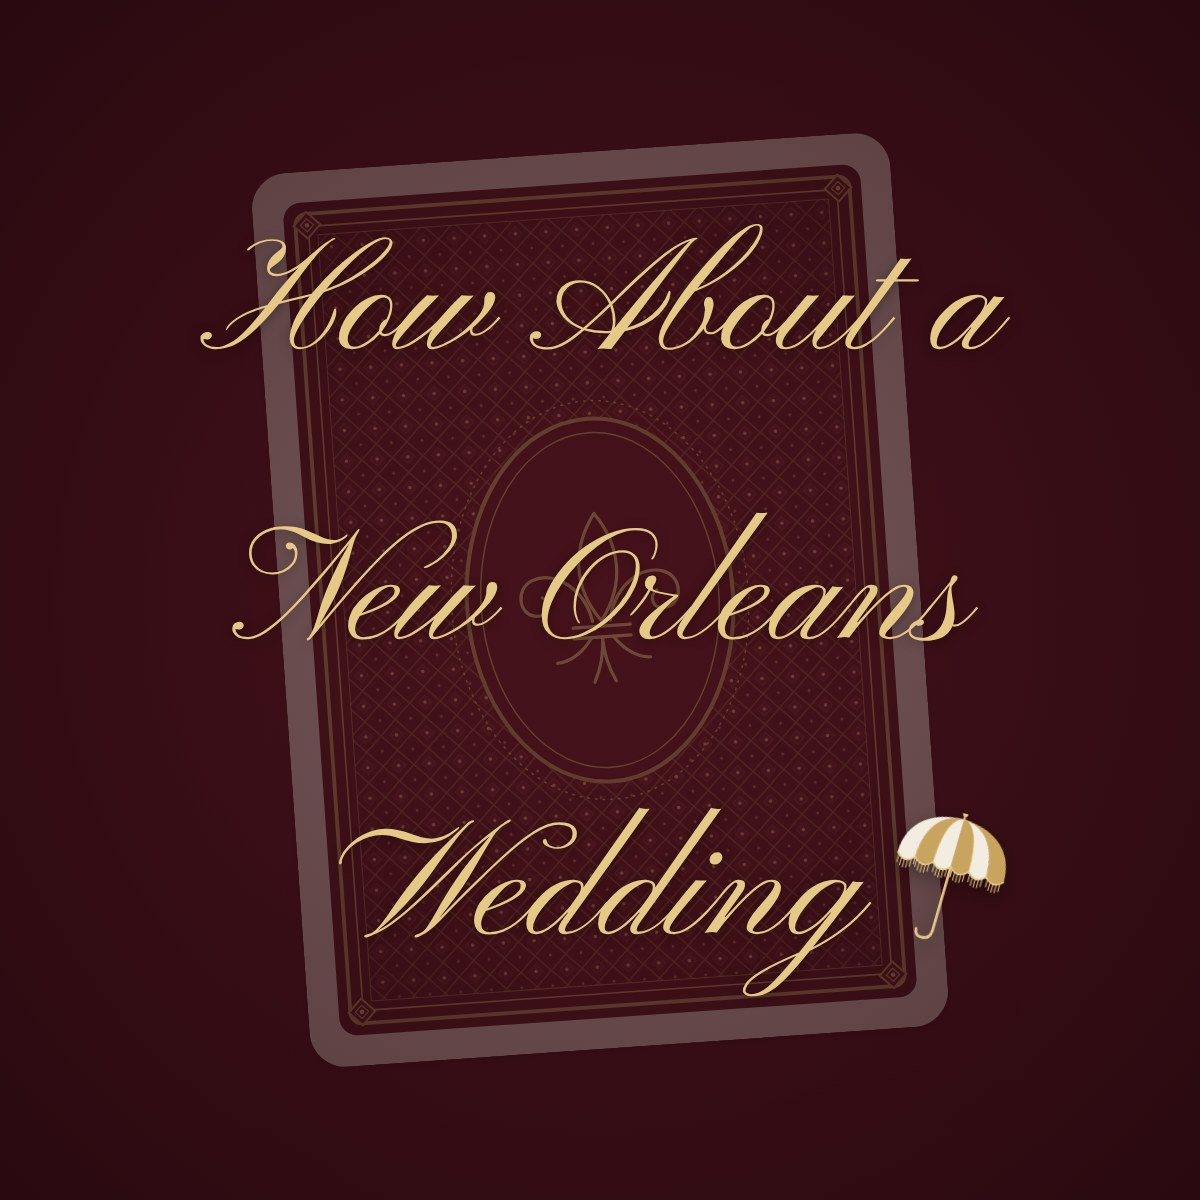
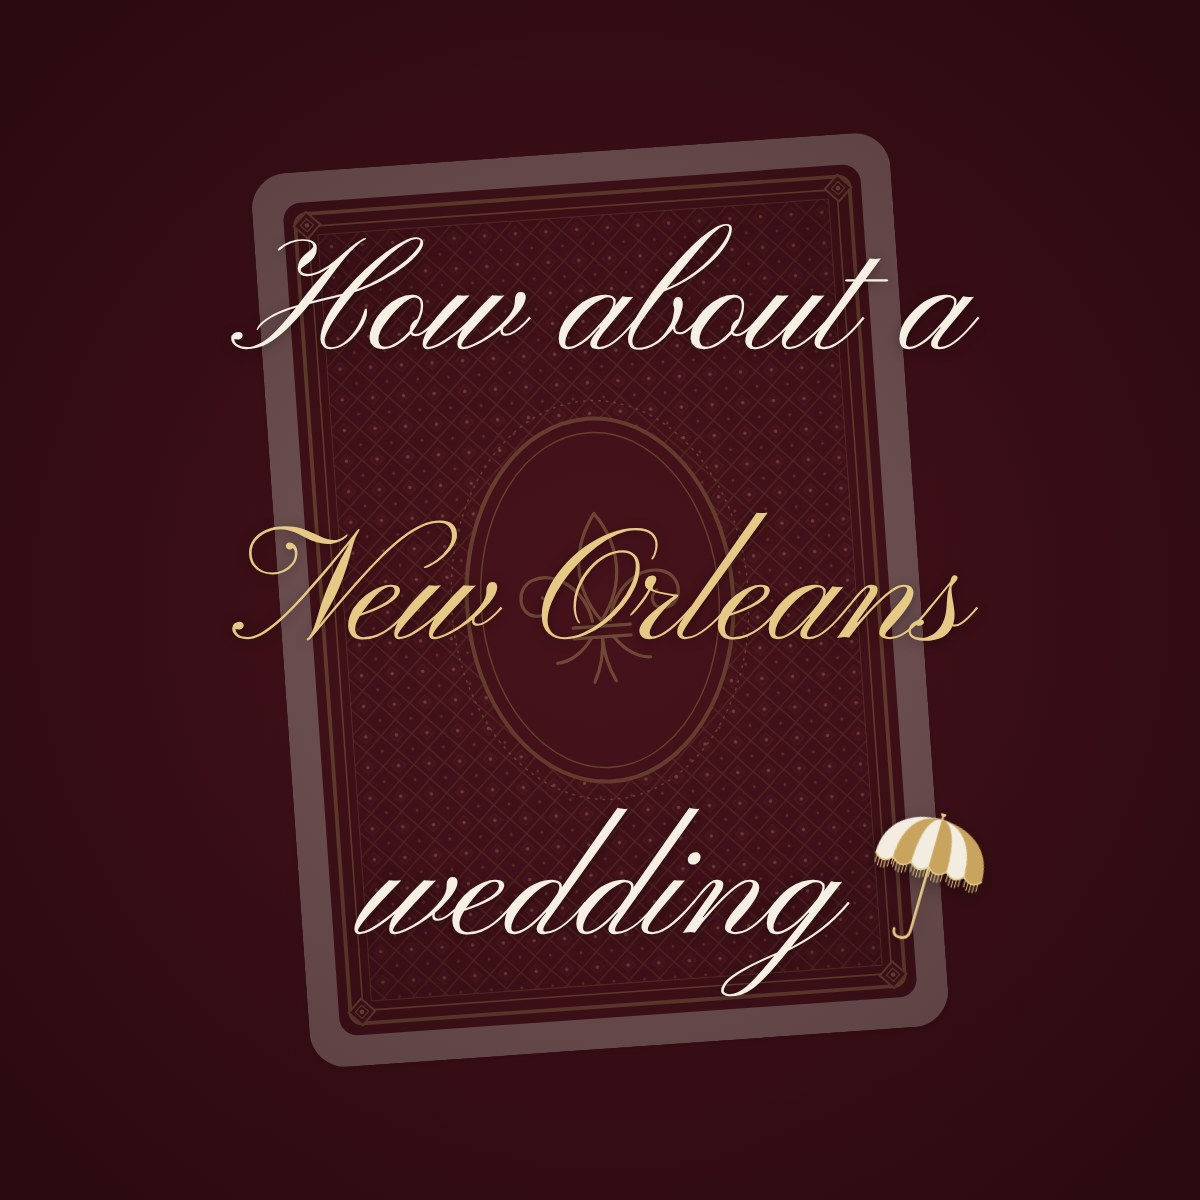
Preview tests: sentence case, cream script with gold New Orleans
Claude-Session: https://claude.ai/code/session_016KBQnmGzJaodTgtuWJa9K5

Changed region(s): [[0.2775, 0.6783, 0.8633, 0.8325], [0.1542, 0.185, 0.8325, 0.3083]]

diff --git a/tools/make-previews.js b/tools/make-previews.js
@@ -35,16 +35,16 @@ const titleCSS = (k, pos) => `
 .wash{position:absolute;inset:0;background:radial-gradient(ellipse at center,rgba(58,14,22,.66) 0%,rgba(40,9,15,.8) 100%)}
 .title{position:absolute;inset:0;text-shadow:0 2px 12px rgba(0,0,0,.35)}
 .title > *{position:absolute;left:0;right:0;transform:translateY(-50%);display:flex;justify-content:center;align-items:center;text-align:center}
-.title .a{top:${pos.a}px;font-family:"Pinyon Script",cursive;color:#e6c887;font-size:${156*k}px;line-height:1;white-space:nowrap}
+.title .a{top:${pos.a}px;font-family:"Pinyon Script",cursive;color:#f6f0e4;font-size:${156*k}px;line-height:1;white-space:nowrap}
 .title .no{top:${pos.no}px;font-family:"Pinyon Script",cursive;color:#e6c887;font-size:${156*k}px;line-height:1.15;white-space:nowrap}
 .title .wed{top:${pos.wed}px}
 .title .wed .w{position:relative;display:inline-block}
-.title .wed span{font-family:"Pinyon Script",cursive;color:#e6c887;font-size:${156*k}px;line-height:1}
+.title .wed span{font-family:"Pinyon Script",cursive;color:#f6f0e4;font-size:${156*k}px;line-height:1}
 .title .wed .p{position:absolute;left:100%;top:50%;margin-left:${24*k}px;width:${118*k}px;transform:translateY(-62%) rotate(16deg);filter:drop-shadow(0 8px 10px rgba(0,0,0,.35))}
 .title .wed .p svg{display:block;width:100%;height:auto}
 .title .wed .p path[stroke="#3a2a22"]{stroke:#e6c887}`;
-const titleHTML = `<div class="wash"></div><div class="title"><div class="a">How About a</div><div class="no">New Orleans</div>
-<div class="wed"><div class="w"><span>Wedding</span><div class="p">${parasolSVG(["#f3ece0", "#c9a45f", "#e6c887"])}</div></div></div></div>`;
+const titleHTML = `<div class="wash"></div><div class="title"><div class="a">How about a</div><div class="no">New Orleans</div>
+<div class="wed"><div class="w"><span>wedding</span><div class="p">${parasolSVG(["#f3ece0", "#c9a45f", "#e6c887"])}</div></div></div></div>`;
 const FONTS = `<link href="https://fonts.googleapis.com/css2?family=Pinyon+Script&family=Cormorant+Garamond:ital,wght@0,400;0,500;1,400;1,500${SUP.gf ? "&family=" + SUP.gf : ""}&display=swap" rel="stylesheet">`;
 // Card-shaped (5:7) preview: the card back edge to edge.
 const portrait = `<!doctype html><html><head>${FONTS}<style>*{margin:0}body{width:1000px;height:1400px;overflow:hidden;position:relative;background:#efe9dd}

diff --git a/preview-test/portrait.html b/preview-test/portrait.html
@@ -10,13 +10,13 @@
   <meta property="og:url" content="https://aneworleanswedding.com/preview-test/portrait.html">
   <meta property="og:title" content="Ailsa ⚜ André">
   <meta property="og:description" content="Save the date · January 8, 2028 · New Orleans, Louisiana">
-  <meta property="og:image" content="https://aneworleanswedding.com/assets/og-card-portrait.jpg?v=11">
+  <meta property="og:image" content="https://aneworleanswedding.com/assets/og-card-portrait.jpg?v=12">
   <meta property="og:image:type" content="image/jpeg">
   <meta property="og:image:width" content="1000">
   <meta property="og:image:height" content="1400">
   <meta property="og:image:alt" content="A maroon playing card back with a gold fleur-de-lis medallion">
   <meta name="twitter:card" content="summary_large_image">
-  <meta name="twitter:image" content="https://aneworleanswedding.com/assets/og-card-portrait.jpg?v=11">
+  <meta name="twitter:image" content="https://aneworleanswedding.com/assets/og-card-portrait.jpg?v=12">
   <link rel="icon" href="../favicon.svg" type="image/svg+xml">
   <style>body{margin:0;min-height:100vh;display:grid;place-items:center;background:#f8f4ec;font-family:Georgia,serif;color:#2f3a33;text-align:center;padding:24px}a{color:#5c1a24}</style>
 </head>

diff --git a/preview-test/square.html b/preview-test/square.html
@@ -10,13 +10,13 @@
   <meta property="og:url" content="https://aneworleanswedding.com/preview-test/square.html">
   <meta property="og:title" content="Ailsa ⚜ André">
   <meta property="og:description" content="Save the date · January 8, 2028 · New Orleans, Louisiana">
-  <meta property="og:image" content="https://aneworleanswedding.com/assets/og-card-square.jpg?v=11">
+  <meta property="og:image" content="https://aneworleanswedding.com/assets/og-card-square.jpg?v=12">
   <meta property="og:image:type" content="image/jpeg">
   <meta property="og:image:width" content="1200">
   <meta property="og:image:height" content="1200">
   <meta property="og:image:alt" content="A maroon playing card back with a gold fleur-de-lis medallion">
   <meta name="twitter:card" content="summary_large_image">
-  <meta name="twitter:image" content="https://aneworleanswedding.com/assets/og-card-square.jpg?v=11">
+  <meta name="twitter:image" content="https://aneworleanswedding.com/assets/og-card-square.jpg?v=12">
   <link rel="icon" href="../favicon.svg" type="image/svg+xml">
   <style>body{margin:0;min-height:100vh;display:grid;place-items:center;background:#f8f4ec;font-family:Georgia,serif;color:#2f3a33;text-align:center;padding:24px}a{color:#5c1a24}</style>
 </head>
